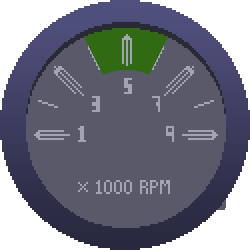
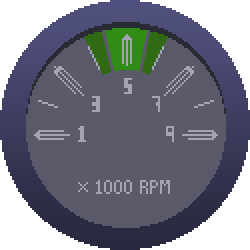
Merge sin_gears.

Changed region(s): [[0.392, 0.112, 0.616, 0.308], [0.868, 0.784, 0.924, 0.84]]

diff --git a/topgeese.js b/topgeese.js
@@ -27,7 +27,7 @@ function preload()
 
 function setup()
 {
-	
+
 }
 
 
@@ -45,16 +45,22 @@ var tach = 1000;
 var rammaFjoldin = 0;
 var carAnimationPhase = 1;
 var needle;
-var NEEDLE_INCREMENT = 300/60;
-var VELOCITY_INCREMENT = 5;
-var needleDirection = 1;
-var distanceTraveled = 0;
-var FINISH_LINE_APPEARS = 10000;
+// FINISH LINE
+var FINISH_LINE_APPEARS = 30000;
 var RACE_OVER_DISTANCE = FINISH_LINE_APPEARS + 800;
+var distanceTraveled = 0;
 var finishLine;
 var finishLineAppeared = false;
 var finishLineDrawn = false;
 var raceOver = false;
+// Acceleration
+var ACC_INIT_PERIOD = 250;
+var ACC_PERIOD = ACC_INIT_PERIOD;
+var ACC_EXT = 50;
+var ACC_SPLIT = 0;
+var MAX_ACC = 1 / 60;
+var ACC_FLOOR = 0;
+var ACC = 0;
 
 function draw()
 {
@@ -84,8 +90,8 @@ function create()
 	road = game.add.sprite(0,0,'road');
 	secondRoad = game.add.sprite(800,0,'road');
 	car = game.add.sprite(0,300,'car1');
-	game.add.sprite(549,349,'tach');
-	needle = game.add.sprite(680,489,'needle');
+	game.add.sprite(548,348,'tach');
+	needle = game.add.sprite(680,488,'needle');
 	needle.anchor.setTo(.8,.5);
 
 	arrows = game.input.keyboard.createCursorKeys();
@@ -105,31 +111,20 @@ function update()
 	}
 	distanceTraveled += velocity;
 	errorCorrect(road, secondRoad);
-	
+
 	updateCarSpriteIfNecessary();
-	
+
+	driveOnACurve();
 	increaseTach();
-	
+
 	rammaFjoldin++;
 
-	if(arrows.right.isDown)
-	{
-		accelDown = true;
-	}
-	if (arrows.right.isUp && accelDown && CURRENT_GEAR <= 4)
-	{
-		attemptShift();
-	}
-	else if(arrows.left.isDown && CURRENT_GEAR >= 0)
-	{
-		CURRENT_GEAR--;
-	}
 	if(distanceTraveled >= FINISH_LINE_APPEARS && finishLineDrawn === false)
 	{
 		finishLineDrawn = true;
 		finishLine = game.add.sprite(800,0,'finish');
 	}
-	
+
 	if(distanceTraveled >= RACE_OVER_DISTANCE)
 	{
 		raceOver = true;
@@ -148,25 +143,9 @@ function stall()
 
 function increaseTach()
 {
-	needle.angle += (NEEDLE_INCREMENT * needleDirection);
-	if(needle.angle === 90)
-	{
-		var q = 16;
-	}
-	console.log(needle.angle);
-	if(needle.angle <= 0)
-	{
-		if(needleDirection === 1)
-		{
-			needle.angle = 180;
-			needleDirection = -1;
-		}
-		else
-		{
-			needle.angle = 0;
-			needleDirection = 1;
-		}
-	}
+	var theta = 180 * ACC_SPLIT / ACC_PERIOD;
+    theta = Math.min(Math.random() * 10 + 120, theta);
+	needle.angle = theta;
 }
 
 function attemptShift()
@@ -211,14 +190,17 @@ function updateCarSpriteIfNecessary()
 	}
 }
 
-function attemptToIncreaseVelocity()
+function driveOnACurve()
 {
-	if(velocity < (5 * (VELOCITY_INCREMENTS_PER_GEAR + (VELOCITY_INCREMENTS_PER_GEAR * CURRENT_GEAR))))
-	{
-//		console.log('GEAR: ' + CURRENT_GEAR);
-		velocity += VELOCITY_INCREMENT;
-		tach += TACH_INCREMENT_PER_ACCEL;
-		needle.angle += NEEDLE_INCREMENT;
+	if (gear > 0) {
+		ACC = Math.max(0, MAX_ACC * Math.sin((Math.PI * ACC_SPLIT) / ACC_PERIOD)) + ACC_FLOOR; // ACC FORMULA
+	} else {
+		ACC = 0;
+	}
+	// console.log('GEAR: ' + gear, ACC);
+	velocity += ACC;
+	if (gear > 0 && ACC_SPLIT < ACC_PERIOD) {
+		ACC_SPLIT += 1;
 	}
 }
 
@@ -247,3 +229,25 @@ function errorCorrect(one, two)
 		two.position.x = one.position.x + 801;
 	}
 }
+
+document.addEventListener("gear-shift", function handleGearShift(event) {
+	newGear = event.detail;
+	gear = newGear; // up gear
+	ACC_SPLIT = 0; // reset curve
+	ACC_FLOOR = ACC; // save floor
+	ACC_PERIOD = ACC_INIT_PERIOD + ACC_EXT * gear; // extend period
+	// Downshift penalty
+	if (newGear < gear) {
+		ACC_FLOOR = 0;
+	}
+}, false);
+
+var debug_shift = 0;
+document.addEventListener("keydown", function debugShift() {
+	if (debug_shift < 6) {
+		debug_shift += 1
+		var event = document.createEvent('CustomEvent');
+		event.initCustomEvent("gear-shift", true, true, debug_shift);
+		document.dispatchEvent(event);
+	}
+}, false);

diff --git a/driver.html b/driver.html
@@ -20,7 +20,8 @@
     <p>Gear: <span id="shift-gear"></span></p>
     <button id="finish-debug">Finish</button>
     <button id="resend-order" class="debug">Debug Order</button>
-    <div id="modal" class="open"><!-- Justin: remove open to hide -->
+
+    <div id="modal" class=""><!-- Justin: remove open to hide -->
       <p>waiting for the other players...</p>
       <p>
         <span id="team-a-shifters"></span>
@@ -183,6 +184,9 @@
           if (json.team === team) {
             CURRENT_GEAR = json.gear;
             document.getElementById("shift-gear").innerHTML = CURRENT_GEAR;
+            var event = document.createEvent('CustomEvent');
+            event.initCustomEvent("gear-shift", true, true, CURRENT_GEAR);
+            document.dispatchEvent(event);
           }
         });
       });
